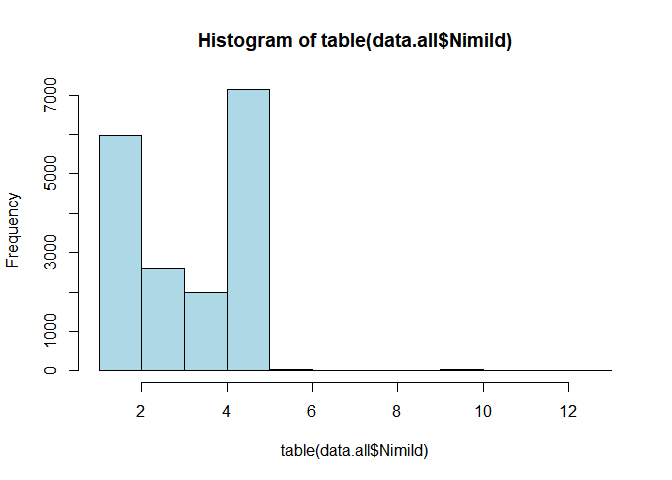
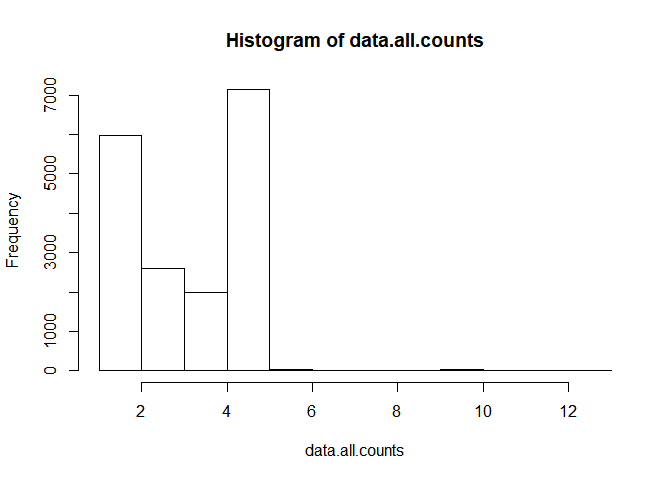
Add files via upload

Changed region(s): [[0.125, 0.1875, 0.4062, 0.7812], [0.2812, 0.0625, 0.7812, 0.125], [0.4062, 0.9062, 0.6562, 0.9688]]

diff --git a/3.summary.md b/3.summary.md
@@ -5,7 +5,19 @@ Summary
 Unikaalseid täisnimesid 17808.
 
 ``` r
-hist(table(data.all$NimiId), col="lightblue")
+data.all.counts = table(data.all$NimiId)
+hist(data.all.counts)
 ```
 
 ![](3.summary_files/figure-gfm/unnamed-chunk-2-1.png)<!-- -->
+
+``` r
+data.all.counts %>% data.frame() %>% group_by(Freq) %>% summarise(n= n()) %>% ggplot(aes(Freq, n)) + geom_col() + theme_classic()
+```
+
+![](3.summary_files/figure-gfm/unnamed-chunk-2-2.png)<!-- --> Eelnevast
+on näha, et hist() baasfunktsioon ei näita unikaalsete täisnimede
+kasutust õigesti. ggplot graafik on korrektne. Graafiku põhjal võib
+järeldada, et suur osa töötajaid on riigitööl olnud 5a ning kuna 5-st
+enam on nimede kordusi vähe, siis korduvaid-kattuvaid täisnimesid pole
+väga palju.
